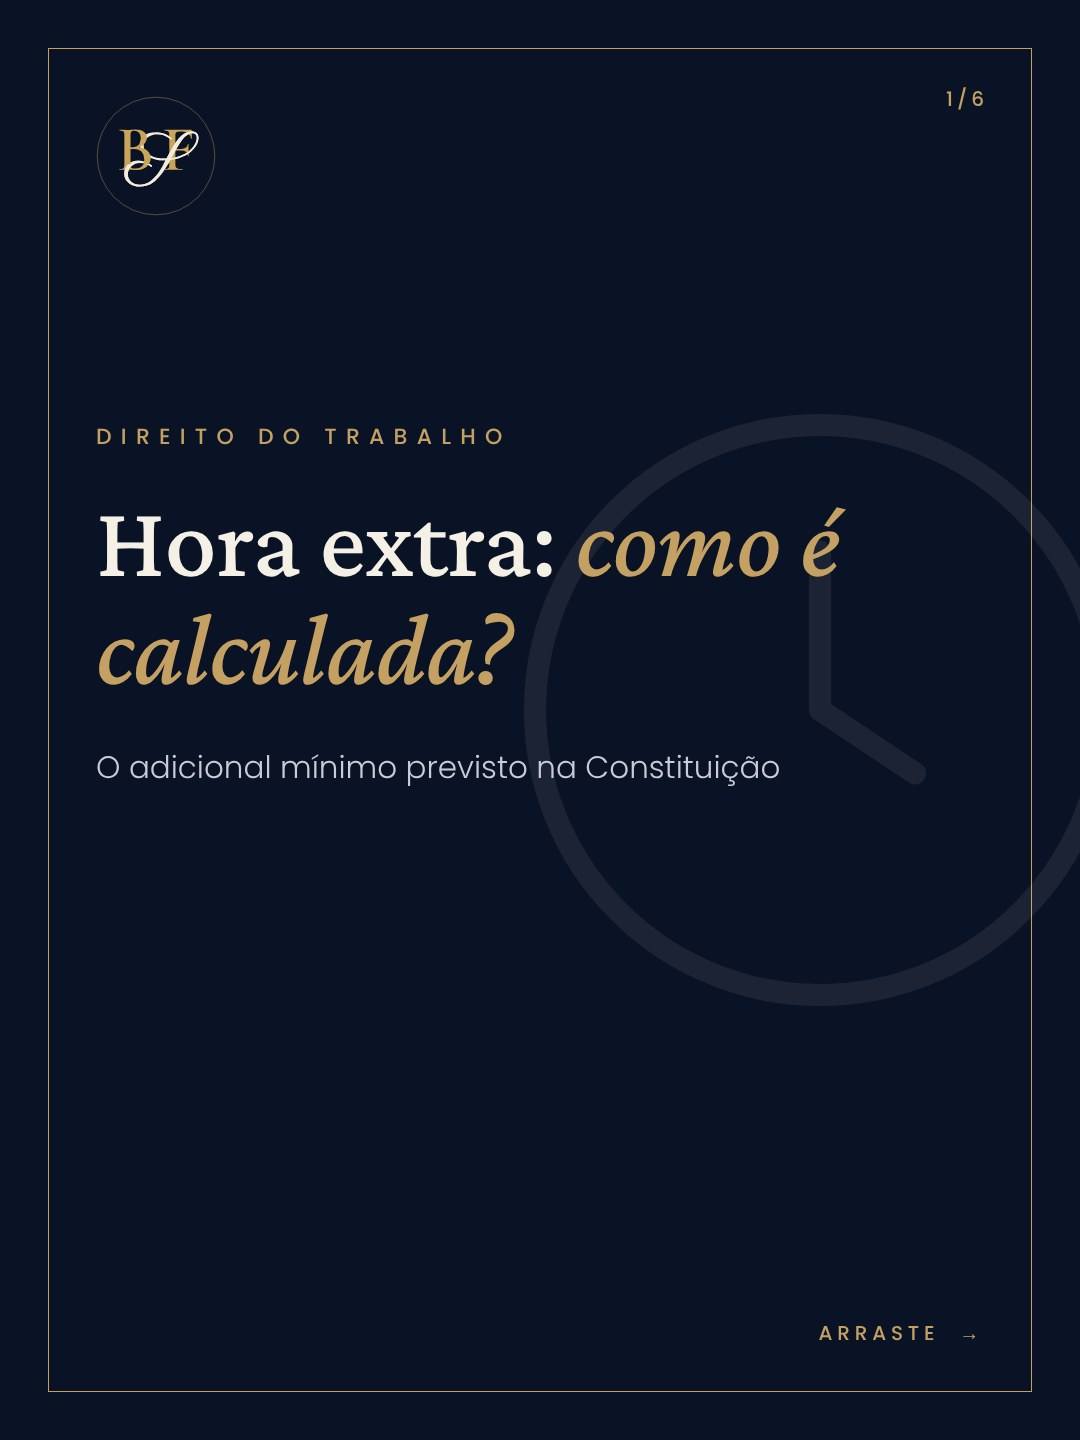
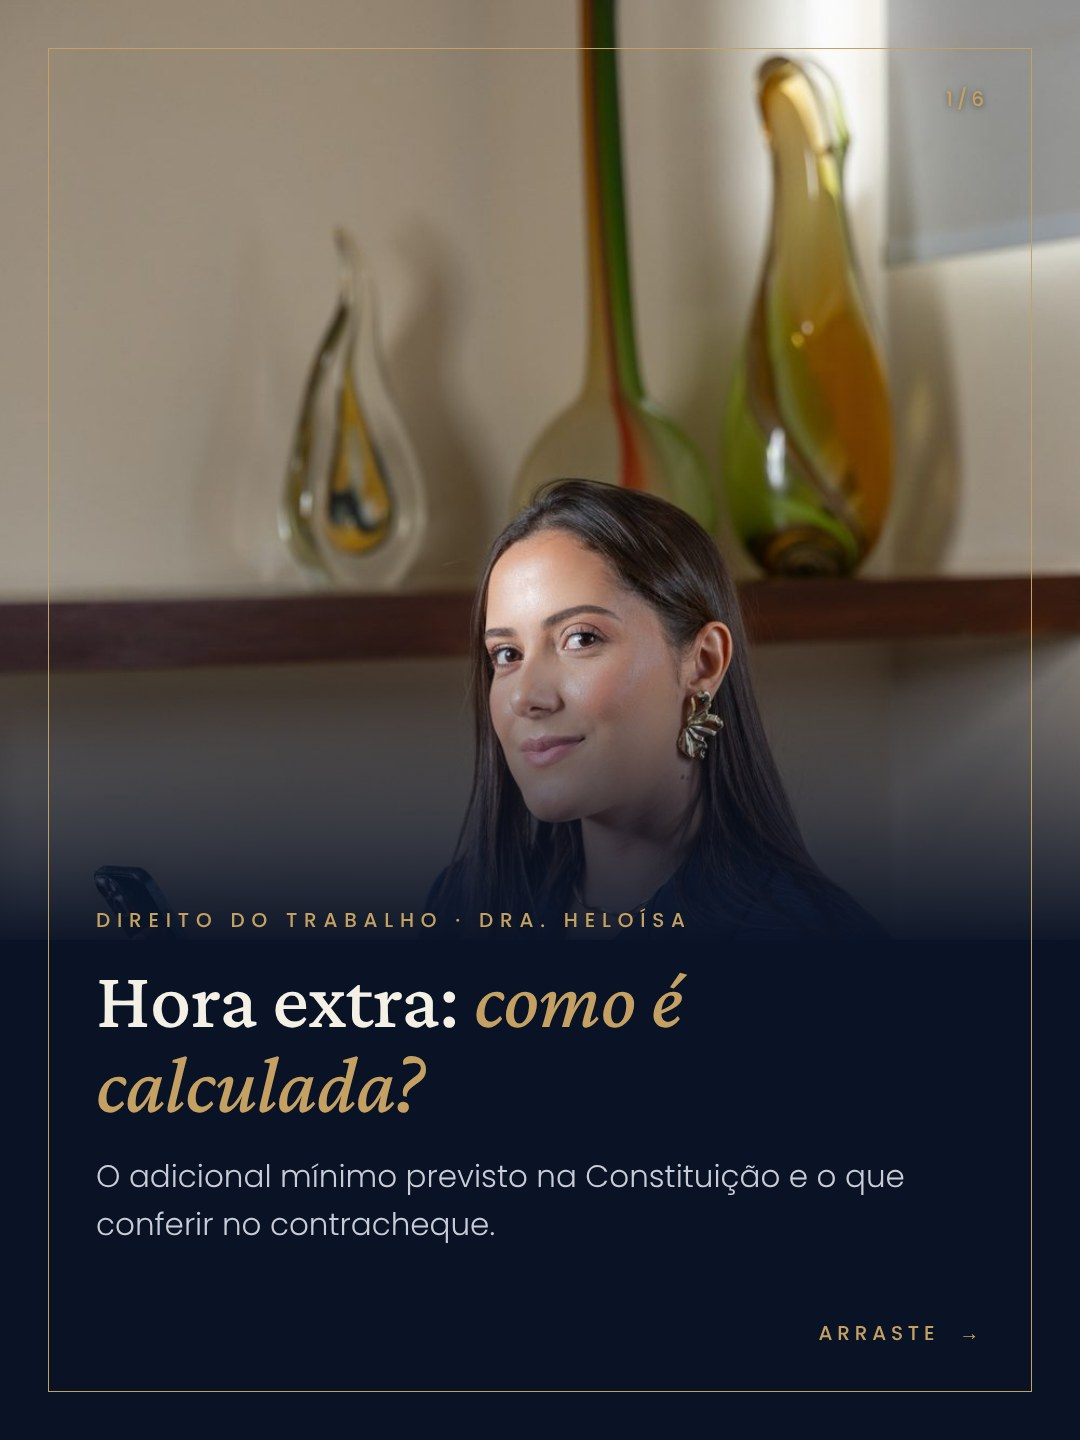
Capas: variante clara no kit; 07/12 com capa clara e 09/12 com foto da Dra. Heloísa
Claude-Session: https://claude.ai/code/session_019yFdNPbXaqafi1aGd5nU4B

diff --git a/.src/posts/kit.py b/.src/posts/kit.py
@@ -37,16 +37,16 @@ def page(w,h,bg,body,fg):
 def foot(dark):
     return f"<div class=ft><i></i><b>@bentosilvafilhoadv</b><s style='color:{'#B9BCC6' if dark else '#5B6274'}'>POÇOS DE CALDAS · MG</s></div>"
 W,H=1080,1440
-def capa(n,tot,eb,titulo,sub,icon,swipe=True):
+def capa(n,tot,eb,titulo,sub,icon,swipe=True,dark=True):
+    bg,fg,mut,mono,ic=(N,C,'#C9CCD6',MONOD,C) if dark else (C,N,'#3B4256',MONOC,N)
     b=f"""<div class=fr></div><div class=cnt style='color:{G}'>{n}/{tot}</div>
-<img src='{MONOD}' style='position:absolute;left:96px;top:96px;width:120px'>
-<div style='position:absolute;right:-120px;top:330px;opacity:.07'>{big(icon,760,C,.7)}</div>
+<img src='{mono}' style='position:absolute;left:96px;top:96px;width:120px'>
+<div style='position:absolute;right:-120px;top:330px;opacity:.07'>{big(icon,760,ic,.7)}</div>
 <div style='position:absolute;left:96px;right:96px;top:420px'><div class=eb>{eb}</div>
-<div class=t style='font-size:104px;margin-top:34px;color:{C}'>{titulo}</div>
-<div class=p style='font-size:31px;margin-top:40px;color:#C9CCD6;max-width:800px'>{sub}</div></div>
-{"<div class=sw>ARRASTE &nbsp;→</div>" if swipe else ""}
-<img src='{MONOD}' style='position:absolute;left:96px;bottom:84px;width:0'>"""
-    return page(W,H,N,b,C)
+<div class=t style='font-size:104px;margin-top:34px;color:{fg}'>{titulo}</div>
+<div class=p style='font-size:31px;margin-top:40px;color:{mut};max-width:800px'>{sub}</div></div>
+{"<div class=sw>ARRASTE &nbsp;→</div>" if swipe else ""}"""
+    return page(W,H,bg,b,fg)
 def miolo(n,tot,num,titulo,texto,lei,icon,dark,extra=''):
     bg,fg,mut=(N,C,'#C9CCD6') if dark else (C,N,'#3B4256')
     b=f"""<div class=fr></div><div class=cnt style='color:{G}'>{n}/{tot}</div>

diff --git a/.src/posts/render.py b/.src/posts/render.py
@@ -1,7 +1,7 @@
 """Gera HTML e PNG a partir de um spec JSON.
 spec = {"nome": "Carrossel X", "slides": [ {...}, ... ]}
 Tipos de slide (os campos de texto aceitam <em>...</em> para destaque dourado):
-  capa:   {"tipo":"capa","eb":"DIREITO DO DIA A DIA","titulo":"...","sub":"...","icon":"balanca","swipe":true}
+  capa:   {"tipo":"capa","dark":true (false = capa clara, creme),"eb":"DIREITO DO DIA A DIA","titulo":"...","sub":"...","icon":"balanca","swipe":true}
   miolo:  {"tipo":"miolo","num":"01","titulo":"...","texto":"...","lei":"CDC, ART. 49","icon":"doc","dark":false,
            "chips":["a","b"]  ou  "duas":[["Título A","texto A"],["Título B","texto B"]] (opcionais)}
   final:  {"tipo":"final","titulo":"Salve para <em>quando precisar</em>","texto":"..."}
@@ -19,7 +19,7 @@ spec=json.load(open(sys.argv[1])); out=os.path.abspath(sys.argv[2]); os.makedirs
 S=spec['slides']; T=len(S); files=[]
 for i,s in enumerate(S,1):
     t=s['tipo']
-    if t=='capa': h=kit.capa(i,T,s['eb'],s['titulo'],s.get('sub',''),s.get('icon','balanca'),s.get('swipe',T>1))
+    if t=='capa': h=kit.capa(i,T,s['eb'],s['titulo'],s.get('sub',''),s.get('icon','balanca'),s.get('swipe',T>1),s.get('dark',True))
     elif t=='miolo':
         ex=kit.chips(s['chips'],s.get('dark',False)) if s.get('chips') else (kit.duas(tuple(s['duas'][0]),tuple(s['duas'][1]),s.get('dark',False)) if s.get('duas') else '')
         h=kit.miolo(i,T,s.get('num',f'{i-1:02d}'),s['titulo'],s['texto'],s.get('lei',''),s.get('icon','doc'),s.get('dark',False),ex)
